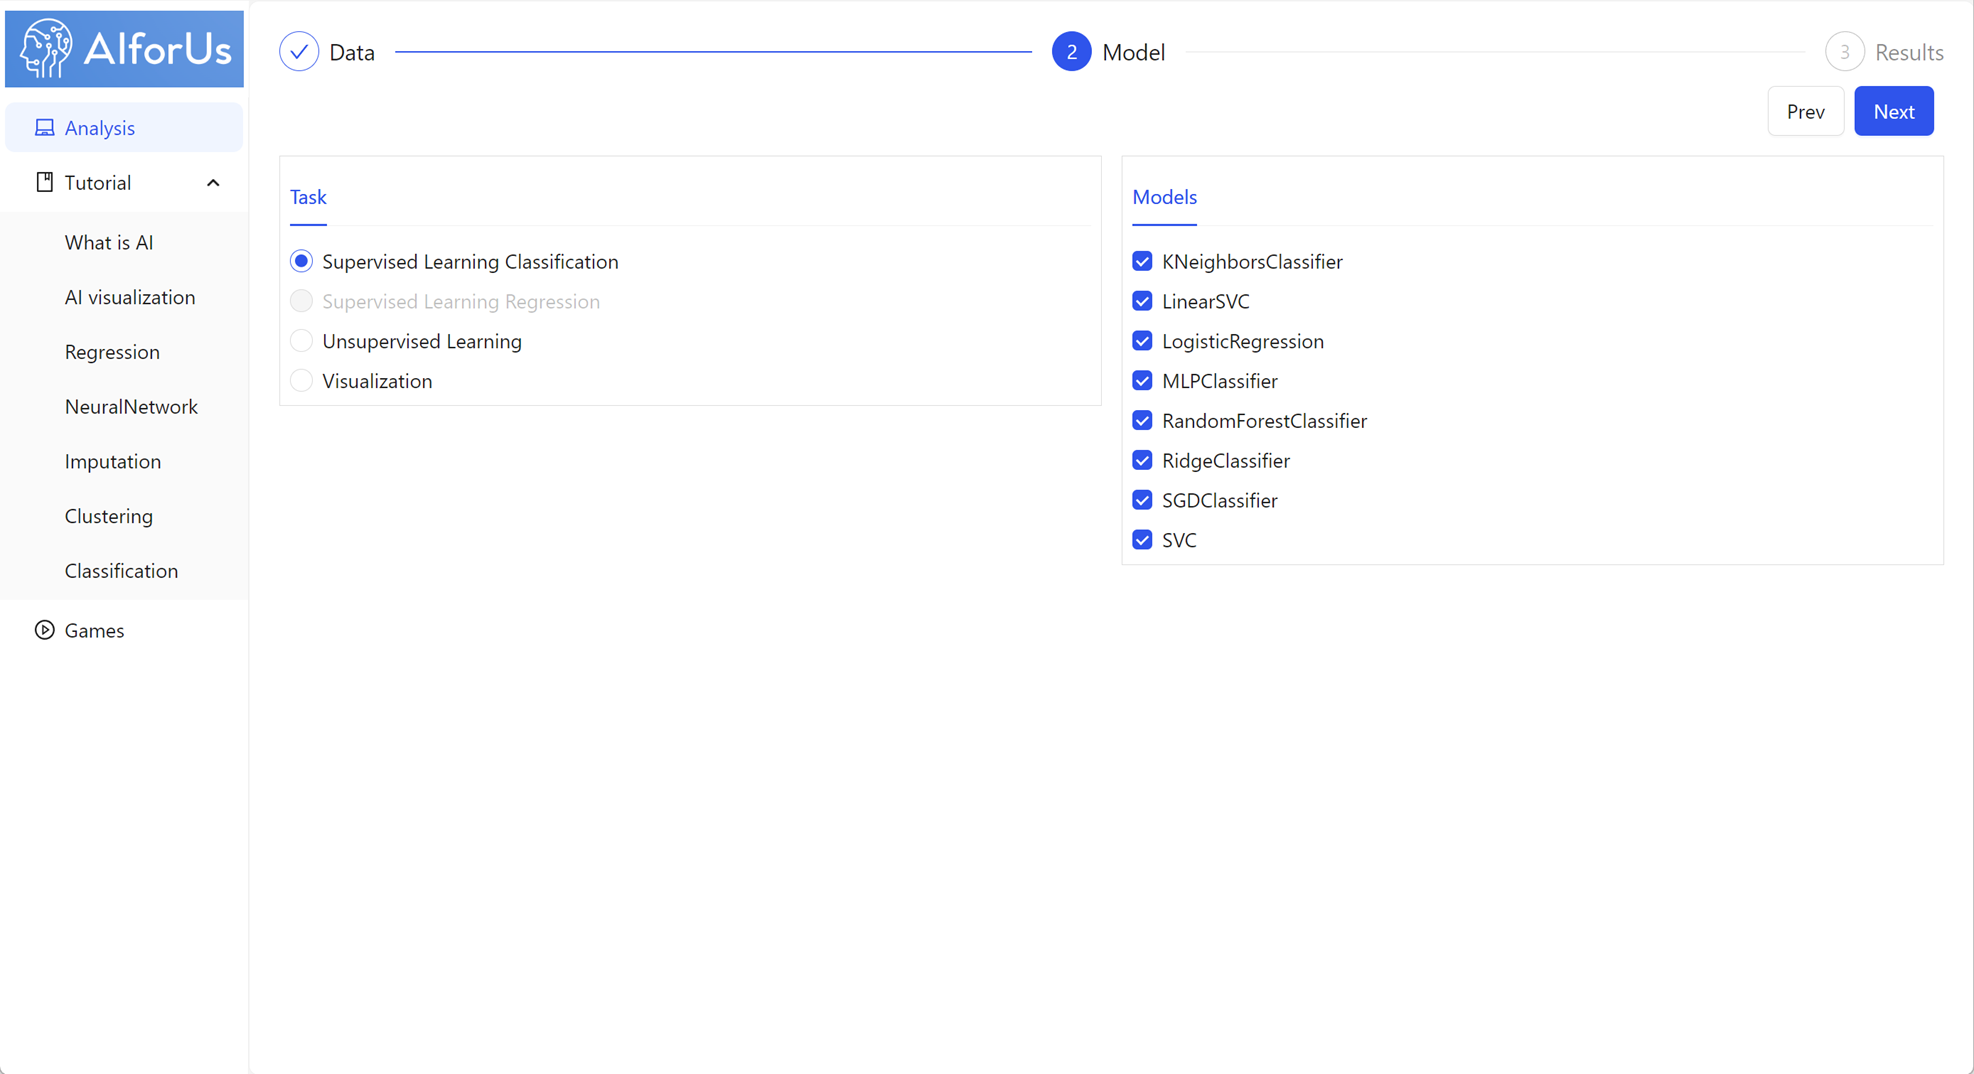
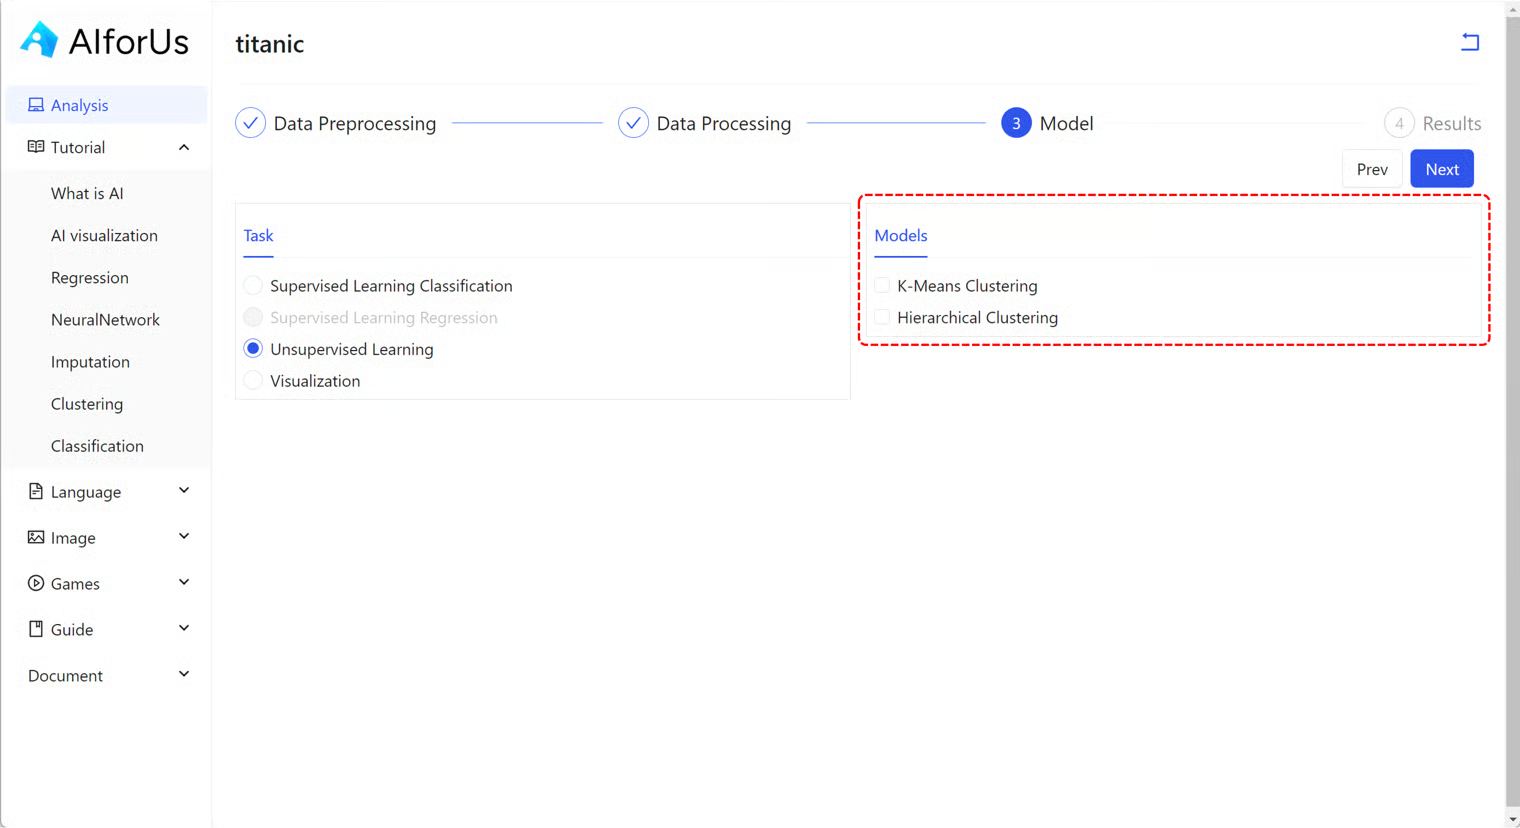
GITBOOK-15: No subject

diff --git a/scope/analytics-tool/data-module/README.md b/scope/analytics-tool/data-module/README.md
@@ -7,7 +7,7 @@ icon: chart-mixed
 
 ## Upload and organize data
 
-Besides [hands-on practice](../exercise-platform.md#hands-on-datasets-practice), you can also analyze your own data by uploading your own datasets in CSV format.
+Besides [hands-on practice](../../exercise-platform.md#hands-on-datasets-practice), you can also analyze your own data by uploading your own datasets in CSV format.
 
 {% hint style="warning" %}
 **Note**: Both public datasets and uploaded datasets share the same excel-like interface.
@@ -15,15 +15,15 @@ Besides [hands-on practice](../exercise-platform.md#hands-on-datasets-practice),
 
 1.  Click "New Dataset" button.
 
-    <figure><img src="../../.gitbook/assets/image (3).png" alt=""><figcaption><p>My Datasets</p></figcaption></figure>
+    <figure><img src="../../../.gitbook/assets/image (3) (1).png" alt=""><figcaption><p>My Datasets</p></figcaption></figure>
 2.  In the pop-up window, enter the dataset name you prefer and upload your dataset.
 
     _**It may take up to 1 minute to upload your dataset.**_
 
-    <div align="left"><figure><img src="../../.gitbook/assets/1748026606610.png" alt=""><figcaption><p>Click to upload</p></figcaption></figure></div>
+    <div align="left"><figure><img src="../../../.gitbook/assets/1748026606610.png" alt=""><figcaption><p>Click to upload</p></figcaption></figure></div>
 3.  &#x20;Once your dataset is uploaded, you can find it under "My Datasets" section.
 
-    <figure><img src="../../.gitbook/assets/1748547749532.png" alt=""><figcaption><p>Uploaded file</p></figcaption></figure>
+    <figure><img src="../../../.gitbook/assets/1748703753515.png" alt=""><figcaption><p>Uploaded file</p></figcaption></figure>
 
 ## Data Analysis
 
@@ -45,17 +45,19 @@ We present the data you want to analyze in an excel-like interface, where you ca
 
 In Titanic dataset, we want to make column "survived" categorical data, as indicated below:
 
-<figure><img src="../../.gitbook/assets/1748570560856.png" alt=""><figcaption><p>Change data type</p></figcaption></figure>
+<figure><img src="../../../.gitbook/assets/1748570560856.png" alt=""><figcaption><p>Change data type</p></figcaption></figure>
 
-If you have plenty of columns, and you want to do batch processing, you can simply click "Batch process" button <img src="../../.gitbook/assets/1748559604509.png" alt="" data-size="line">on the top right corner, then you can select target type (Integer, Category or Float) and pattern (hover on the info icon <img src="../../.gitbook/assets/1748560485074.png" alt="" data-size="line"> for the explanation).
+If you have plenty of columns starting/ending/containing same characters, you can process them all at once.&#x20;
 
-<figure><img src="../../.gitbook/assets/1748554152761.png" alt=""><figcaption><p>Batch process</p></figcaption></figure>
+You can simply click "Batch process" button <img src="../../../.gitbook/assets/1748559604509.png" alt="" data-size="line">on the top right corner, then you can select target type (Integer, Category or Float) and pattern (hover on the info icon <img src="../../../.gitbook/assets/1748560485074.png" alt="" data-size="line"> for the explanation of how to utilize it).
+
+<figure><img src="../../../.gitbook/assets/1748554152761.png" alt=""><figcaption><p>Batch process</p></figcaption></figure>
 
 #### Summary
 
 When you click "Summary" tab, you can also get the summary of the data, including basic information of the data, distribution of numerical and categorical features, etc.
 
-<figure><img src="../../.gitbook/assets/1748554492304.png" alt=""><figcaption><p>Data summary</p></figcaption></figure>
+<figure><img src="../../../.gitbook/assets/1748554492304.png" alt=""><figcaption><p>Data summary</p></figcaption></figure>
 
 ### Data Processing
 
@@ -65,23 +67,23 @@ This step includes cleaning, transforming, and organizing data to make it suitab
 
 In Titanic dataset, we want to predict if a person is survived or not, so we select "survived" as the prediction label. The column "survived" will be locked by green color.
 
-<figure><img src="../../.gitbook/assets/1748571180495.png" alt=""><figcaption><p>Prediction label</p></figcaption></figure>
+<figure><img src="../../../.gitbook/assets/1748571180495.png" alt=""><figcaption><p>Prediction label</p></figcaption></figure>
 
 #### Ignored Features
 
 You can select any features you would like to ignore in your data, or if you want to keep all the features, just skip this step. In Titanic dataset, we take features of "sibsp" and "embarked" as an example. The corresponding columns become disabled.
 
-<figure><img src="../../.gitbook/assets/1748578195312.png" alt=""><figcaption><p>Ignored Features</p></figcaption></figure>
+<figure><img src="../../../.gitbook/assets/1748578195312.png" alt=""><figcaption><p>Ignored Features</p></figcaption></figure>
 
 #### Missing Data
 
 There are 3 different ways to handle missing values — mean, median and KNN (K-nearest neighbors), you can select based on your own needs.  We take mean as an example.
 
 {% hint style="warning" %}
-Note: these 3 methods only work on numerical data. If you want to take care of categorical data, you want to consider it as a category, and tale care of it under [Categorical Encoding Method](data-module.md#categorical-encoding-method).
+Note: these 3 methods only work on numerical data. If you want to take care of categorical data, you want to consider it as a category, and tale care of it under [Categorical Encoding Method](./#categorical-encoding-method).
 {% endhint %}
 
-<figure><img src="../../.gitbook/assets/1748579789842.png" alt=""><figcaption><p>Handle missing data</p></figcaption></figure>
+<figure><img src="../../../.gitbook/assets/1748579789842.png" alt=""><figcaption><p>Handle missing data</p></figcaption></figure>
 
 #### Categorical Encoding Method&#x20;
 
@@ -91,13 +93,13 @@ For all the categorical data, you can encode them by 2 options — label encodin
 
 Label encoding is a method of categorical encoding where each category is assigned a unique integer value. It is suitable for ordinal data, where the order of categories matters.
 
-<figure><img src="../../.gitbook/assets/1748580674472.png" alt=""><figcaption><p>Label  encoding</p></figcaption></figure>
+<figure><img src="../../../.gitbook/assets/1748580674472.png" alt=""><figcaption><p>Label  encoding</p></figcaption></figure>
 
 **Onehot encoding**:
 
 Onehot encoding is a method of categorical encoding that creates a new binary column for each category. Each row has a ‘1’ in the column of its category and ‘0’ in others.
 
-<figure><img src="../../.gitbook/assets/1748582141608.png" alt=""><figcaption><p>Onehot encoding</p></figcaption></figure>
+<figure><img src="../../../.gitbook/assets/1748582141608.png" alt=""><figcaption><p>Onehot encoding</p></figcaption></figure>
 
 _We take onehot encoding as an example._
 
@@ -111,23 +113,23 @@ In AIforUs, you can choose to use either minmax or standard normalization method
 
 Minmax is the process of scaling numerical data into a specific range or distribution to improve model performance.
 
-<figure><img src="../../.gitbook/assets/1748582536341.png" alt=""><figcaption><p>Minmax</p></figcaption></figure>
+<figure><img src="../../../.gitbook/assets/1748582536341.png" alt=""><figcaption><p>Minmax</p></figcaption></figure>
 
 **Standard**:
 
 Standard, or standardization, is a normalization method that transforms data to have a mean of 0 and a standard deviation of 1. It centers the data and is useful when features have different units or scales.
 
-<figure><img src="../../.gitbook/assets/1748582665951.png" alt=""><figcaption><p>Standard</p></figcaption></figure>
+<figure><img src="../../../.gitbook/assets/1748582665951.png" alt=""><figcaption><p>Standard</p></figcaption></figure>
 
 _We take minmax as an example._
 
 {% hint style="info" %}
 At any time, you can return to the previous step and adjust your selections.
-
-After all the data processing tasks, you can now proceed to the _Model_ section by simply clicking "Next" button.
 {% endhint %}
 
-## Models
+After all the data processing tasks, you can now proceed to the _Model_ section by simply clicking "Next" button.
+
+## Model
 
 Models are mathematical representations created by a machine learning algorithm to learn patterns from data. Once trained, a model can make predictions on new, unseen data.
 
@@ -137,23 +139,17 @@ Models are mathematical representations created by a machine learning algorithm 
 
 
 
-<figure><img src="../../.gitbook/assets/1748629242751.png" alt=""><figcaption><p>Supervised learning classification models</p></figcaption></figure>
-
 #### Supervised Learning Regression
-
-<figure><img src="../../.gitbook/assets/1748630122939.png" alt=""><figcaption></figcaption></figure>
 
 ### Unsupervised learning
 
-<figure><img src="../../.gitbook/assets/1748629716273.png" alt=""><figcaption><p>Unsupervised learning models</p></figcaption></figure>
+
 
 ### Visualization
 
 In the _Model_ section, you can choose to visualize your data using one of three major models—PCA, t-SNE, and UMAP (highlighted in the red dashed rectangle). See image below:
 
-<figure><img src="../../.gitbook/assets/1748629954281.png" alt=""><figcaption><p>Visualization models</p></figcaption></figure>
-
-<figure><img src="../../.gitbook/assets/1739425318841.png" alt=""><figcaption><p>Visualize data</p></figcaption></figure>
+<figure><img src="../../../.gitbook/assets/1739425318841.png" alt=""><figcaption><p>Visualize data</p></figcaption></figure>
 
 ## Results
 
@@ -161,17 +157,17 @@ After selecting your preferred models, you can proceed to the _Results_ section,
 
 ### Results for Supervised Learning
 
-<figure><img src="../../.gitbook/assets/1739426462470.png" alt=""><figcaption><p>Supervised learning results</p></figcaption></figure>
+<figure><img src="../../../.gitbook/assets/1739426462470.png" alt=""><figcaption><p>Supervised learning results</p></figcaption></figure>
 
 ### Results for Unsupervised Learning
 
 We also offer various unsupervised learning models, see the image below:
 
-<figure><img src="../../.gitbook/assets/1739426518189.png" alt=""><figcaption><p>Unsupervised learning models</p></figcaption></figure>
+<figure><img src="../../../.gitbook/assets/1739426518189.png" alt=""><figcaption><p>Unsupervised learning models</p></figcaption></figure>
 
 Similarly, after selecting your preferred models, you can proceed to the _Results_ section, where you can see the clustering details.
 
-<figure><img src="../../.gitbook/assets/1739426702806.png" alt=""><figcaption><p>Unsupervised learning results</p></figcaption></figure>
+<figure><img src="../../../.gitbook/assets/1739426702806.png" alt=""><figcaption><p>Unsupervised learning results</p></figcaption></figure>
 
 ### Results for Visualization
 

diff --git a/scope/analytics-tool/README.md b/scope/analytics-tool/README.md
@@ -7,10 +7,10 @@ icon: diamonds-4
 
 ## Data Module
 
-* [Upload and organize data](data-module.md#upload-and-organize-data) through Excel-like interfaces.
-* [Perform data processing tasks](data-module.md#data-processing-tasks) like selection, imputation, and statistical analysis.
-* [Visualize data](data-module.md#visualize-data) with methods like PCA, t-SNE, and UMAP, and conduct clustering using algorithms such as K-means and hierarchical clustering.
-* [Implement supervised learning for classification and regression](data-module.md#implement-supervised-unsupervised-learning) with graphical user interfaces to manage model training and evaluation.
+* [Upload and organize data](data-module/#upload-and-organize-data) through Excel-like interfaces.
+* [Perform data processing tasks](data-module/#data-processing-tasks) like selection, imputation, and statistical analysis.
+* [Visualize data](data-module/#visualize-data) with methods like PCA, t-SNE, and UMAP, and conduct clustering using algorithms such as K-means and hierarchical clustering.
+* [Implement supervised learning for classification and regression](data-module/#implement-supervised-unsupervised-learning) with graphical user interfaces to manage model training and evaluation.
 
 ## Image Module
 

diff --git a/SUMMARY.md b/SUMMARY.md
@@ -5,7 +5,11 @@
   * [Educational Resources](scope/educational-resources.md)
   * [Exercise Platform](scope/exercise-platform.md)
   * [Analytics Tool](scope/analytics-tool/README.md)
-    * [Data Module](scope/analytics-tool/data-module.md)
+    * [Data Module](scope/analytics-tool/data-module/README.md)
+      * [Use Case: Supervised Learning Classification](scope/analytics-tool/data-module/use-case-supervised-learning-classification.md)
+      * [Use Case: Supervised Learning Regression](scope/analytics-tool/data-module/use-case-supervised-learning-regression.md)
+      * [Use Case: Unsupervised Learning](scope/analytics-tool/data-module/use-case-unsupervised-learning.md)
+      * [Use Case: Visualization](scope/analytics-tool/data-module/use-case-visualization.md)
     * [Image Module](scope/analytics-tool/image-module.md)
     * [Language Module](scope/analytics-tool/language-module.md)
   * [Game-Based Learning](scope/game-based-learning.md)

diff --git a/scope/exercise-platform.md b/scope/exercise-platform.md
@@ -19,6 +19,6 @@ In future versions, we plan to expand the platform with even more diverse practi
 
 We provide public datasets under Analysis module, you an use the public dataset to practice the knowledge learned from [Tutorial module](educational-resources.md).
 
-Once click one of the public datasets, you will enter an excel-like page, where you can start to try with various methods through out different steps to get analysis results. You can refer to our [Data Module ](analytics-tool/data-module.md)for more information.
+Once click one of the public datasets, you will enter an excel-like page, where you can start to try with various methods through out different steps to get analysis results. You can refer to our [Data Module ](analytics-tool/data-module/)for more information.
 
 <figure><img src="../.gitbook/assets/1746853245000.png" alt=""><figcaption><p>Public Datasets</p></figcaption></figure>

diff --git a/scope/analytics-tool/data-module/use-case-supervised-learning-classification.md b/scope/analytics-tool/data-module/use-case-supervised-learning-classification.md
@@ -1,0 +1,5 @@
+# Use Case: Supervised Learning Classification
+
+
+
+<figure><img src="../../../.gitbook/assets/image.png" alt=""><figcaption><p>Supervised learning classification models</p></figcaption></figure>

diff --git a/scope/analytics-tool/data-module/use-case-supervised-learning-regression.md b/scope/analytics-tool/data-module/use-case-supervised-learning-regression.md
@@ -1,0 +1,5 @@
+# Use Case: Supervised Learning Regression
+
+
+
+<figure><img src="../../../.gitbook/assets/image (1).png" alt=""><figcaption><p>Supervised learning regression models</p></figcaption></figure>

diff --git a/scope/analytics-tool/data-module/use-case-unsupervised-learning.md b/scope/analytics-tool/data-module/use-case-unsupervised-learning.md
@@ -1,0 +1,5 @@
+# Use Case: Unsupervised Learning
+
+
+
+<figure><img src="../../../.gitbook/assets/image (2).png" alt=""><figcaption><p>Unsupervised learning models</p></figcaption></figure>

diff --git a/scope/analytics-tool/data-module/use-case-visualization.md b/scope/analytics-tool/data-module/use-case-visualization.md
@@ -1,0 +1,5 @@
+# Use Case: Visualization
+
+
+
+<figure><img src="../../../.gitbook/assets/image (3).png" alt=""><figcaption><p>Visualization models</p></figcaption></figure>
